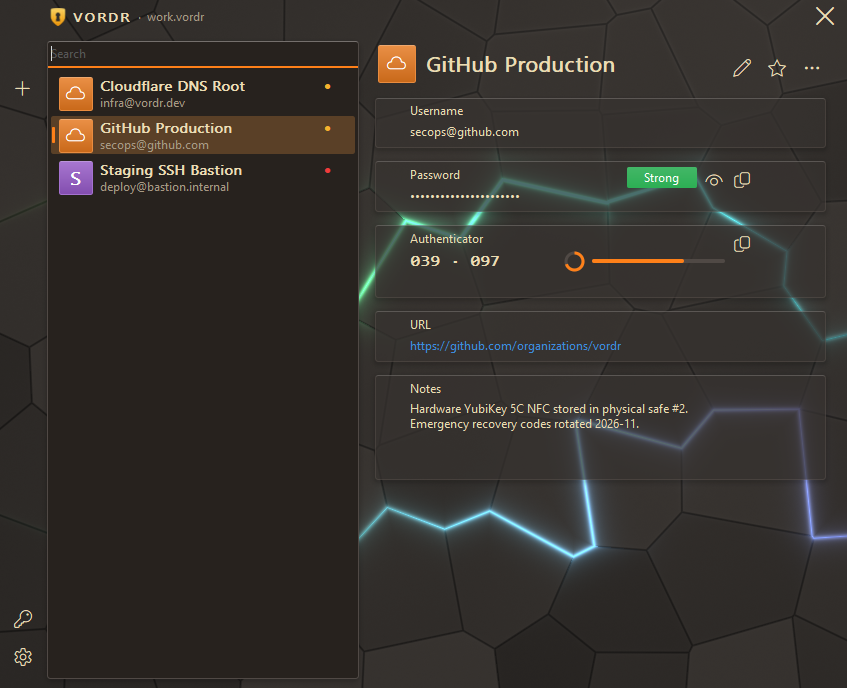
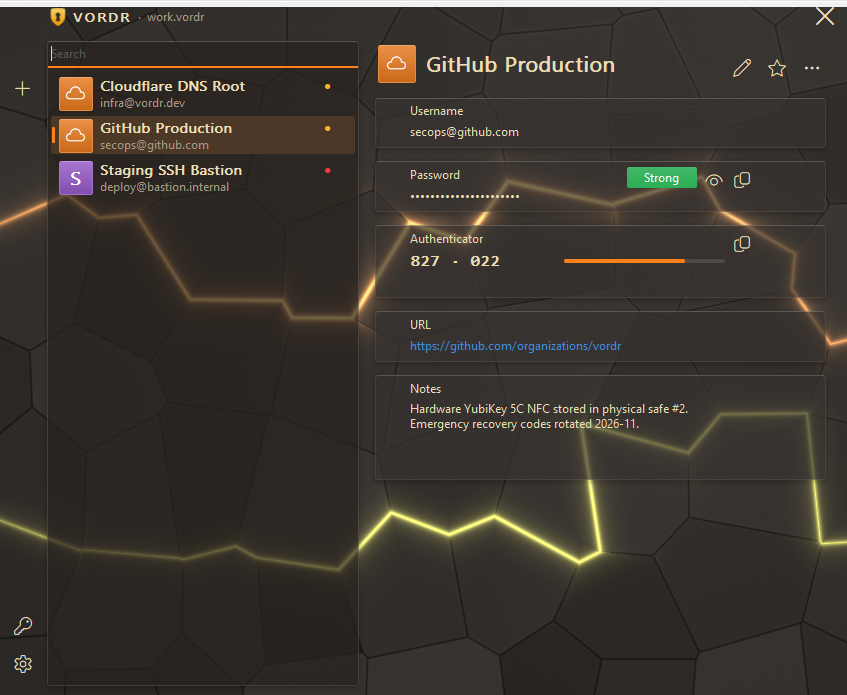
fix(ui): remove redundant TOTP countdown ring and refresh screenshots

diff --git a/CHANGES.md b/CHANGES.md
@@ -16,7 +16,11 @@ First public `1.0.0` release, consolidating the native ARM64 port, DirectCompute
 - **Interactive universal MSI setup wizard (`tools/make_msi.ps1`, `tools/verify_msi.ps1`).** Pure declarative Windows Installer 5.0 wizard (zero custom actions, zero third-party tools) featuring custom Vordr-styled graphics (`BmpSide`, `BmpTop`, `vordr.ico` Add/Remove icon, and 16×16 supersampled padlock icons), four guided screens (Welcome, Installation Folder & integration options, master-detail Settings & Policy editor, and Ready to Install), a modeless progress dialog, and maintenance/uninstall handling.
 - **Start with Windows installer option (`VORDR_AUTOSTART=1`).** Opt-in checkbox on the Installation Folder screen and secure public MSI property writing `HKLM\SOFTWARE\Microsoft\Windows\CurrentVersion\Run\Vordr = "[INSTALLDIR]vordr.exe"` (starting minimized to the notification area, cleanly removed on uninstall).
 - **User-overridable `HKCU` defaults alongside `HKLM` policy locks (`VORDR_USER_*` + top-right `Lock` toggle).** All 16 settings in the MSI wizard are directly editable: editing any of the 14 `HKCU`-capable settings without ticking the top-right `Lock` checkbox seeds a `Permanent` `HKCU\SOFTWARE\Vordr` user default (changeable inside Vordr Settings and preserved across uninstall), while ticking `Lock` enforces and locks the value in `HKLM\SOFTWARE\Vordr`. `AllowUncVault` and `AllowScreenCapture` remain strictly `HKLM`-only. Silent `/qn` installs continue to write zero policy or preference rows unless explicitly supplied.
-- **Documentation visual refresh and post-quantum section (`README.md`, `logo/vordr.svg`, `docs/screenshots/*.png`, `docs/DEPLOYMENT.md`).** Added the Vordr vector shield logo, synthetic-vault screenshots, a plain-language post-quantum resistance section covering AES-256-GCM, Argon2id/BLAKE2b, SHA-256, and RSA-2048/FIDO2 TPM/Hello unlock wrappers, and full alignment across all 20 documentation files.
+- **Documentation visual refresh and post-quantum section (`README.md`, `logo/vordr.svg`, `docs/screenshots/*.png`, `docs/DEPLOYMENT.md`, `docs/TRUST.md`).** Added the Vordr vector shield logo, synthetic-vault screenshots, a plain-language post-quantum resistance section covering AES-256-GCM, Argon2id/BLAKE2b, SHA-256, and RSA-2048/FIDO2 TPM/Hello unlock wrappers, an encryption implementation trustworthiness discussion in `docs/TRUST.md`, and full alignment across all 20 documentation files.
+
+### Changed in 1.0.0
+
+- **Simplified TOTP countdown timer (`src/theme.asm`).** Removed the redundant circular ring beside the TOTP countdown bar so each authenticator row renders only the clean horizontal progress pill.
 
 ## [0.8.2] - 2026-11-21
 

diff --git a/docs/ARCHITECTURE.md b/docs/ARCHITECTURE.md
@@ -238,7 +238,7 @@ must not be described as Windows CFG.
 | `totp.asm`, `pwgen.asm` | One-time codes, password/PIN generation, grading, and policy |
 | `tpm.asm`, `regcfg.asm` | TPM 2.0 PCP & `webauthn.dll` Hello wrapping, TBS cooldown diagnostics, registry precedence, paths, rollback history |
 | `zipexport.asm`, `zipimport.asm` | WinZip AE-2 and JSON interoperability with per-attachment `SHA-256` verification |
-| `theme.asm` | 14 color schemes + Follow Windows, perceived-luminance contrast, SSE2 SDF rounded rects, glass cards & sidebar, drop shadows, pill toggles, radial TOTP progress |
+| `theme.asm` | 14 color schemes + Follow Windows, perceived-luminance contrast, SSE2 SDF rounded rects, glass cards & sidebar, drop shadows, pill toggles, TOTP countdown bar |
 | `anim.asm` | Animation clock: eased value slots driven by one timer while active, honoring Windows' "Animation effects" setting |
 | `gpu.asm`, `gpu_backdrops.inc` | Direct3D 11 DirectCompute (`cs_5_0`) procedural backdrops (7 styles via `d3d11.dll` with WARP fallback + SSE2 360° Rodrigues hue cycling, plus flat mode) cached in a 32-bit DIB |
 | `fileio.asm`, `console.asm`, `log.asm` | Hardened file access (`file_path_allowed` / `file_validate_handle`), diagnostic output, logging |
